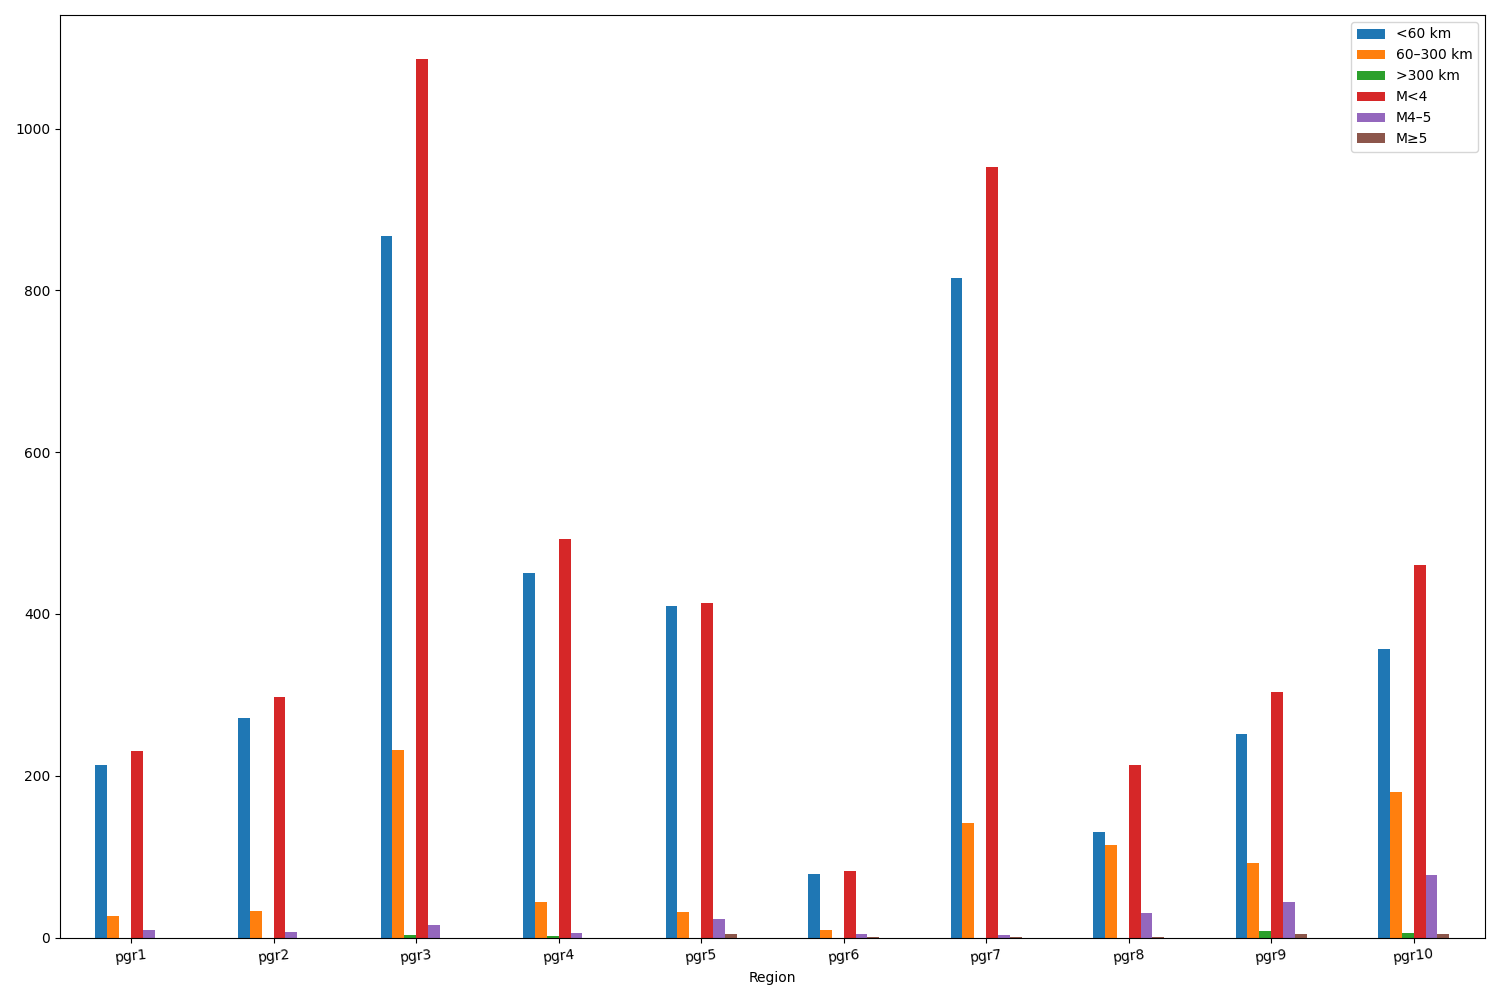
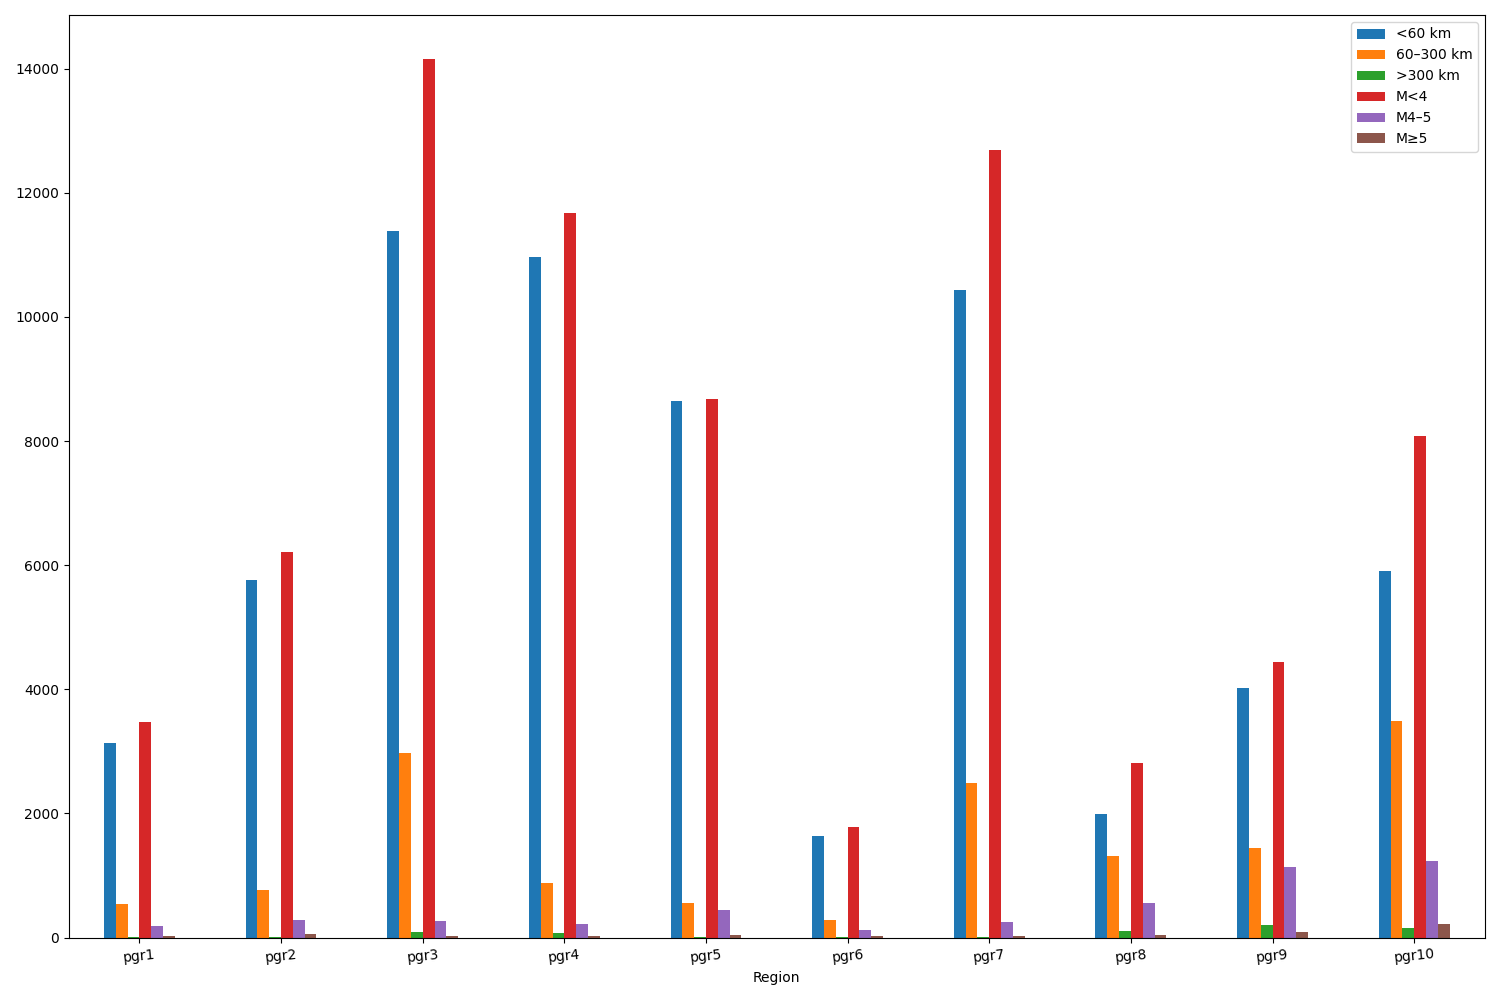
Added support for multiple uploads

diff --git a/pages/9_EQ_Katalog-Integrasi_Monev.py b/pages/9_EQ_Katalog-Integrasi_Monev.py
@@ -20,37 +20,43 @@ from PIL import Image
 st.set_page_config(page_title='Earthquake Dashboard - Katalog Integrasi', layout='wide', page_icon='🌋')
 
 # 📄 Upload Excel file
-fil_upl = st.sidebar.file_uploader("Upload the CSV or Excel file", type=["csv", "xlsx"])
-
-if fil_upl is not None:
-    dtf = pd.DataFrame((pd.read_csv if fil_upl.name.endswith(".csv") else pd.read_excel)(fil_upl))
-    if "LAT_FIX" in dtf.columns and "LON_FIX" in dtf.columns:
-        dtf.rename(columns={"LAT_FIX": "LAT", "LON_FIX": "LON"}, inplace=True)
-    elif "Latitude" in dtf.columns and "Longitude" in dtf.columns:
-        dtf = dtf.iloc[:, [0, 1, 2, 6, 3, 4, 5, 9, 7, 8]]
-        dtf.rename(columns={
-            "#EventID": "Event ID",
-            "Latitude": "LAT",
-            "Longitude": "LON",
-            "Date": "DATETIME",
-            "Depth (km)": "DEPTH",
-            "Magnitude": "MAG",
-            "Event Location Name": "REGION"
-        }, inplace=True)
-        dtf["DATETIME"] = pd.to_datetime(dtf["DATETIME"]) + pd.to_timedelta(dtf['Time (UTC)'].astype(str))
-        dtf.drop(["Time (UTC)"], axis=1, inplace=True)
-    st.success("File uploaded and data loaded successfully!")
-    st.write(dtf.head())  # Preview first rows
-else:
-    st.warning("Please upload an CSV or Excel file to proceed.")
+fil_upl = st.sidebar.file_uploader(
+    "Upload the CSV or Excel file",
+    type=["csv", "xlsx"],
+    accept_multiple_files=True
+)
+dtf = pd.DataFrame(columns=["Event ID", "DATETIME", "MAG", "LAT", "LON", "DEPTH", "REGION"])
+for x in fil_upl:
+    if x is not None:
+        dtf_fil = pd.DataFrame((pd.read_csv if x.name.endswith(".csv") else pd.read_excel)(x))
+        if "LAT_FIX" in dtf_fil.columns and "LON_FIX" in dtf_fil.columns:
+            dtf_fil.rename(columns={"LAT_FIX": "LAT", "LON_FIX": "LON"}, inplace=True)
+            dtf_fil["DATETIME"] = pd.to_datetime(dtf_fil["DATETIME"])
+        elif "Latitude" in dtf_fil.columns and "Longitude" in dtf_fil.columns:
+            dtf_fil = dtf_fil.iloc[:, [0, 1, 2, 6, 3, 4, 5, 9, 7, 8]]
+            dtf_fil.rename(columns={
+                "#EventID": "Event ID",
+                "Date": "DATETIME",
+                "Magnitude": "MAG",
+                "Latitude": "LAT",
+                "Longitude": "LON",
+                "Depth (km)": "DEPTH",
+                "Event Location Name": "REGION"
+            }, inplace=True)
+            dtf_fil["DATETIME"] = pd.to_datetime(dtf_fil["DATETIME"]) + pd.to_timedelta(dtf_fil['Time (UTC)'].astype(str))
+            dtf_fil.drop(["Time (UTC)"], axis=1, inplace=True)
+        st.success("File uploaded and data loaded successfully!")
+        dtf = pd.concat([dtf, dtf_fil], ignore_index=True)
+        dtf.sort_values(by="DATETIME", ascending=False, inplace=True)
+    else:
+        st.warning("Please upload an CSV or Excel file to proceed.")
 
 
 # 🧹 Filter Data
-df_filtered = dtf[
+dtf_flt = dtf[
     dtf['LAT'].between(dtf['LAT'].min(), dtf['LAT'].max()) &
     dtf['LON'].between(dtf['LON'].min(), dtf['LON'].max())
     ]
-dtf["DATETIME"] = pd.to_datetime(dtf["DATETIME"])
 
 # 📅 Use date_input for better UX
 st.sidebar.subheader("🕒 Select Date Range")
@@ -58,9 +64,9 @@ dat_sta = st.sidebar.date_input("Start Date", dtf["DATETIME"].min())
 dat_end = st.sidebar.date_input("End Date", dtf["DATETIME"].max())
 
 # 🔍 Filter by selected date range
-df_filtered = dtf[
-    (dtf["DATETIME"] >= pd.to_datetime(dat_sta))
-    & (dtf["DATETIME"] <= pd.to_datetime(dat_end) + datetime.timedelta(days=1))
+dtf_flt = dtf_flt[
+    (dtf_flt["DATETIME"] >= pd.to_datetime(dat_sta))
+    & (dtf_flt["DATETIME"] <= pd.to_datetime(dat_end) + datetime.timedelta(days=1))
 ]
 
 # 🗺 Folium Map Construction
@@ -72,9 +78,9 @@ def depth_color(depth):
     else:
         return 'green'
 
-if not df_filtered.empty:
-    y0 = df_filtered['LAT'].mean()
-    x0 = df_filtered['LON'].mean()
+if not dtf_flt.empty:
+    y0 = dtf_flt['LAT'].mean()
+    x0 = dtf_flt['LON'].mean()
 else:
     y0, x0 = -2.0, 120.0
     st.warning("⚠ No data found. Using default map center.")
@@ -117,8 +123,8 @@ else:
 #st_folium(m, width=1000, height=650)
 
 st.subheader(f"📋 Filtered Earthquake Events ({dat_sta.strftime('%Y-%m-%d')} to {dat_end.strftime('%Y-%m-%d')})")
-df_filtered.index = range(1, len(df_filtered)+1)
-st.dataframe(df_filtered)
+dtf_flt.index = range(1, len(dtf_flt) + 1)
+st.dataframe(dtf_flt)
 
 # 🗺 Island Setup
 list_pulau = ['Sumatra','Jawa','Bali-A','Nustra','Kalimantan','Sulawesi','Maluku','Papua']
@@ -133,7 +139,7 @@ def clip_df(df, island):
     geo_df = gpd.GeoDataFrame(df, geometry=gpd.points_from_xy(df.LON, df.LAT), crs="EPSG:4326")
     return geo_df.clip(load_clip(island))
 
-gpd_seis = gpd.GeoDataFrame(df_filtered, geometry=gpd.points_from_xy(df_filtered.LON, df_filtered.LAT), crs="EPSG:4326")
+gpd_seis = gpd.GeoDataFrame(dtf_flt, geometry=gpd.points_from_xy(dtf_flt.LON, dtf_flt.LAT), crs="EPSG:4326")
 
 def get_eq_coords(pulau_name):
     try:
@@ -187,7 +193,7 @@ def stats(df):
         df.shape[0]
     ]
 
-stat_rows = [stats(clip_df(df_filtered, reg)) for reg in list_pulau]
+stat_rows = [stats(clip_df(dtf_flt, reg)) for reg in list_pulau]
 stat_df = pd.DataFrame(stat_rows, columns=['<60 km','60–300 km','>300 km','M<4','M4–5','M≥5','Total'])
 stat_df['Wilayah'] = labels
 stat_df.set_index('Wilayah', inplace=True)
@@ -251,7 +257,7 @@ ax.legend(handles=legend_elements, loc='lower center', bbox_to_anchor=(0.5, -0.2
 st.markdown("### 🗺 Seismic Events by PGR Region")
 st.pyplot(fig)
 
-stat_rows = [stats(clip_df(df_filtered, reg)) for reg in list_pgr]
+stat_rows = [stats(clip_df(dtf_flt, reg)) for reg in list_pgr]
 stat_df = pd.DataFrame(stat_rows, columns=['<60 km','60–300 km','>300 km','M<4','M4–5','M≥5','Total'])
 stat_df['Region'] = list_pgr
 stat_df.set_index('Region', inplace=True)
@@ -316,7 +322,7 @@ ax.legend(handles=legend_elements, loc='lower center', bbox_to_anchor=(0.5, -0.2
 st.markdown("### 🗺 Seismic Events by PGR Region")
 st.pyplot(fig)
 
-stat_rows = [stats(clip_df(df_filtered, reg)) for reg in list_pgr]
+stat_rows = [stats(clip_df(dtf_flt, reg)) for reg in list_pgr]
 stat_df = pd.DataFrame(stat_rows, columns=['<60 km','60–300 km','>300 km','M<4','M4–5','M≥5','Total'])
 stat_df['Region'] = list_pgr
 stat_df.set_index('Region', inplace=True)
